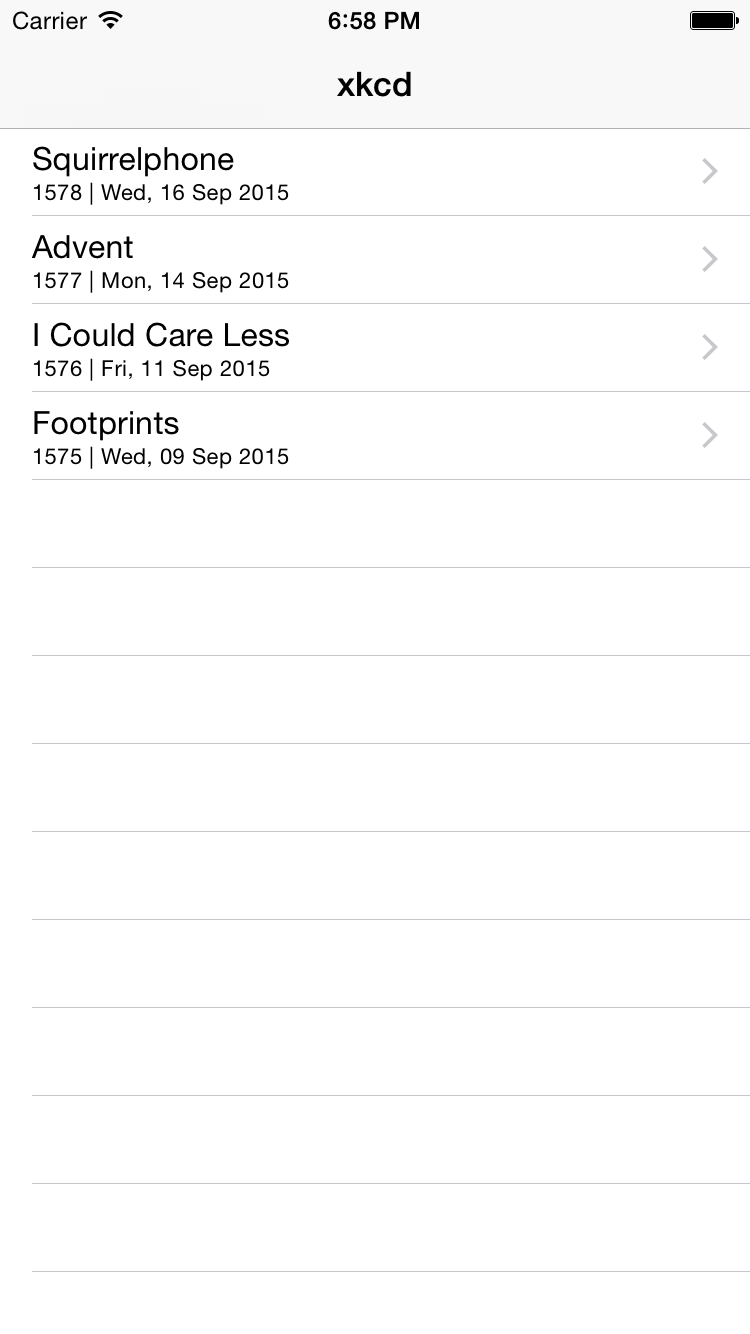
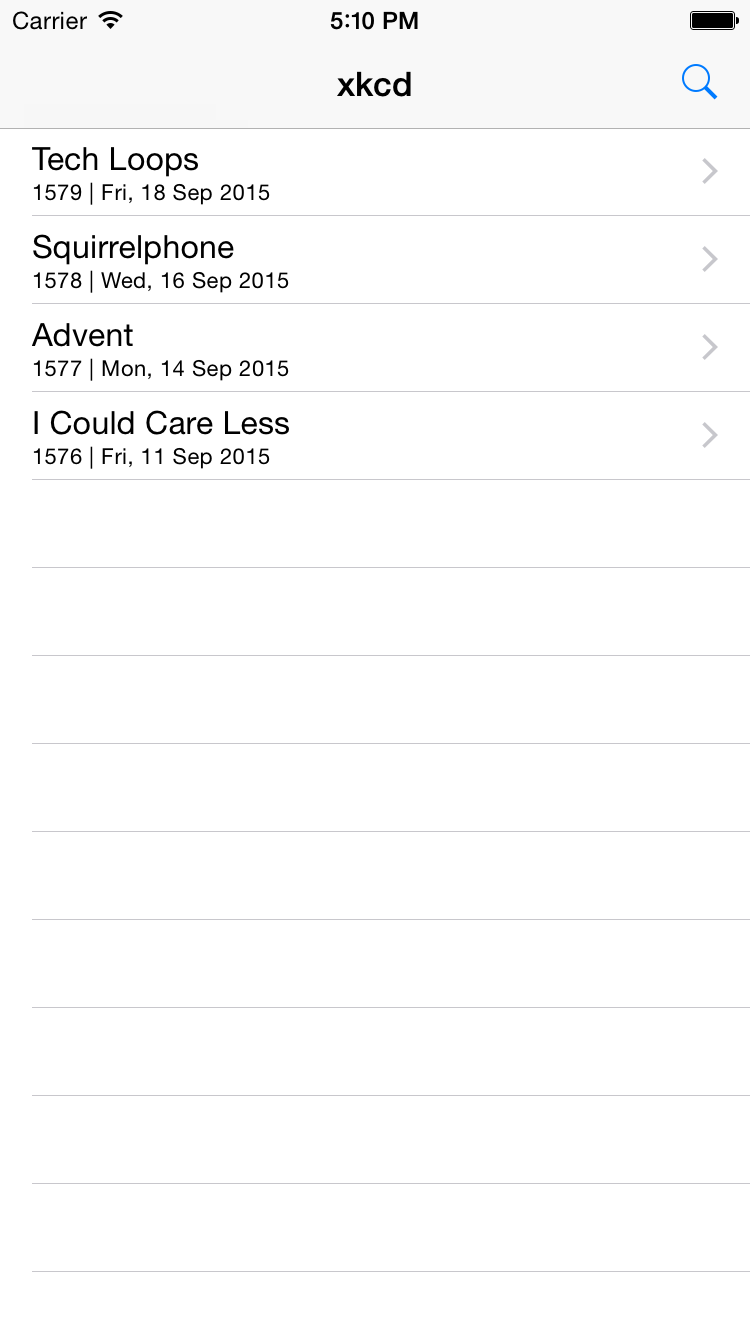
Added ability to load specific comic by comic number. Updated screenshots

diff --git a/xkcd/MasterViewController.swift b/xkcd/MasterViewController.swift
@@ -18,6 +18,8 @@ class MasterViewController: UITableViewController, NSXMLParserDelegate {
     
     // XML parser object to parse RSS feed
     var xmlParser: NSXMLParser!
+    
+    var searchComic: Comic = Comic()
 
 
     // ******************
@@ -31,9 +33,25 @@ class MasterViewController: UITableViewController, NSXMLParserDelegate {
         super.viewDidLoad()
         // Do any additional setup after loading the view, typically from a nib.
         
+        var refreshControl = UIRefreshControl()
+        
+        self.refreshControl?.attributedTitle = NSAttributedString(string: "Pull to refresh")
+        self.refreshControl?.addTarget(self, action: "refresh:", forControlEvents: UIControlEvents.ValueChanged)
+        self.tableView.addSubview(refreshControl)
+        
         startLoading()
         
         // parse RSS
+        getRSS()
+        
+    }
+    
+    func refresh(sender: AnyObject) {
+        
+        self.objects.removeAll(keepCapacity: true)
+
+        self.refreshControl?.endRefreshing()
+        self.startLoading()
         getRSS()
         
     }
@@ -47,6 +65,95 @@ class MasterViewController: UITableViewController, NSXMLParserDelegate {
         objects.insert(NSDate(), atIndex: 0)
         let indexPath = NSIndexPath(forRow: 0, inSection: 0)
         self.tableView.insertRowsAtIndexPaths([indexPath], withRowAnimation: .Automatic)
+    }
+    
+    @IBAction func searchButtonPressed(sender: AnyObject) {
+        
+        let alertController = UIAlertController(title: "Find Comic", message: "Enter the number of the comic to open:", preferredStyle: .Alert)
+        
+        let submitAction = UIAlertAction(title: "Submit", style: .Default) { (_) in
+            
+            let comicField = alertController.textFields![0] as! UITextField
+            
+            self.searchForComicByNumber(comicField.text)
+            
+        }
+        
+        submitAction.enabled = false
+        
+        let cancelAction = UIAlertAction(title: "Cancel", style: .Cancel) { (_) in }
+        
+        alertController.addTextFieldWithConfigurationHandler { (textField) in
+            
+            textField.placeholder = "Comic number"
+            
+            NSNotificationCenter.defaultCenter().addObserverForName(UITextFieldTextDidChangeNotification, object: textField, queue: NSOperationQueue.mainQueue()) { (notification) in
+                submitAction.enabled = textField.text != ""
+            }
+            
+        }
+        
+        alertController.addAction(submitAction)
+        alertController.addAction(cancelAction)
+        
+        self.presentViewController(alertController, animated: true, completion: nil)
+        
+    }
+    
+    func searchForComicByNumber(string: String) {
+        
+        let urlString = NSURL(string: "http://xkcd.com/" + string)
+        let urlRequest = NSURLRequest(URL: urlString!)
+        let queue = NSOperationQueue()
+        
+        NSURLConnection.sendAsynchronousRequest(urlRequest, queue: queue) {
+            (response, data, error) -> Void in
+            let stringData = NSString(data: data, encoding: NSUTF8StringEncoding)
+
+            if(stringData!.length < 400){
+                self.invalidNumberError(string)
+            }
+            else {
+                let comic = Comic()
+                comic.link = urlString!.description
+                comic.number = string
+                let arrayOfImgSrc:[NSString] = stringData?.componentsSeparatedByString("<img src=\"//") as! [NSString]
+                let comicInfo = arrayOfImgSrc[2]
+                let arrayOfComicInfo = comicInfo.componentsSeparatedByString("\"")
+                comic.imageLink = "http://" + (arrayOfComicInfo[0] as! String)
+                comic.title = arrayOfComicInfo[4] as! String
+                comic.alt = arrayOfComicInfo[2] as! String
+                comic.description = ""
+                comic.date = ""
+                
+                self.searchComic = comic
+            
+                let priority = DISPATCH_QUEUE_PRIORITY_DEFAULT
+                dispatch_async(dispatch_get_global_queue(priority, 0)) {
+                    
+                    dispatch_async(dispatch_get_main_queue()) {
+                        
+                        self.performSegueWithIdentifier("showDetailManual", sender: self)
+                        
+                    }
+                    
+                }
+                
+            }
+            
+        }
+        
+    }
+    
+    func invalidNumberError(num: String) {
+        
+        let alertView = UIAlertController(title: "Invalid Comic Number", message: "Comic " + num + " does not exist.", preferredStyle: .Alert)
+        let OKAction = UIAlertAction(title: "OK", style: .Default, handler: nil)
+        
+        alertView.addAction(OKAction)
+        
+        self.presentViewController(alertView, animated: true, completion: nil)
+        
     }
     
     /**
@@ -193,6 +300,9 @@ class MasterViewController: UITableViewController, NSXMLParserDelegate {
                 let object = objects[indexPath.row] as! Comic
             (segue.destinationViewController as! DetailViewController).detailItem = object
             }
+        }
+        else if segue.identifier == "showDetailManual" {
+            (segue.destinationViewController as! DetailViewController).detailItem = searchComic
         }
     }
 

diff --git a/xkcd/DetailViewController.swift b/xkcd/DetailViewController.swift
@@ -27,11 +27,12 @@ class DetailViewController: UIViewController {
         let url = NSURL(string: detail.imageLink)
         let imageRequest: NSURLRequest = NSURLRequest(URL: url!)
         let queue: NSOperationQueue = NSOperationQueue.mainQueue()
+        
         NSURLConnection.sendAsynchronousRequest(imageRequest, queue: queue, completionHandler: {_, imgData, _ in
             
-                self.loadingLabel.hidden = true
+                self.loadingLabel?.hidden = true
                 let image = UIImage(data: imgData)
-                self.imgView.image = image
+                self.imgView?.image = image
                     
             }
         )

diff --git a/README.md b/README.md
@@ -6,6 +6,12 @@ A simple iOS app for viewing the latest XKCD comics.  Currently a work in progre
 
 ![Screenshot 1](/Screenshots/1.png?raw=true "Home")
 
-![Screenshot 2](/Screenshots/2.png?raw=true "Comic view")
+![Screenshot 2](/Screenshots/2.png?raw=true "Search")
 
-![Screenshot 3](/Screenshots/3.png?raw=true "Alt-text")
+![Screenshot 3](/Screenshots/3.png?raw=true "Comic")
+
+![Screenshot 4](/Screenshots/4.png?raw=true "Alt-text")
+
+![Screenshot 5](/Screenshots/5.png?raw=true "Share")
+
+![Screenshot 6](/Screenshots/6.png?raw=true "Attribution")
